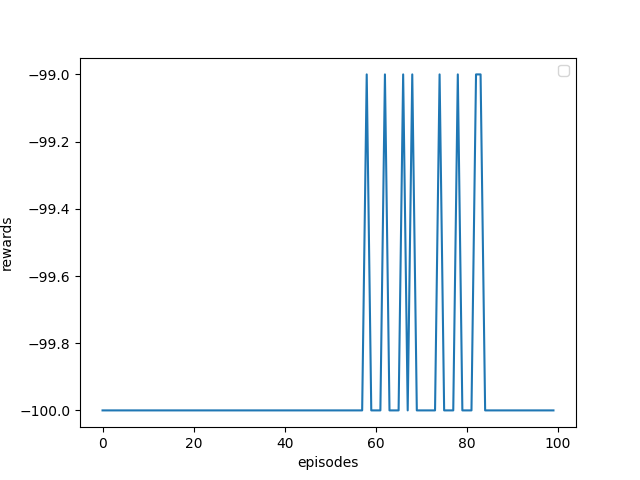
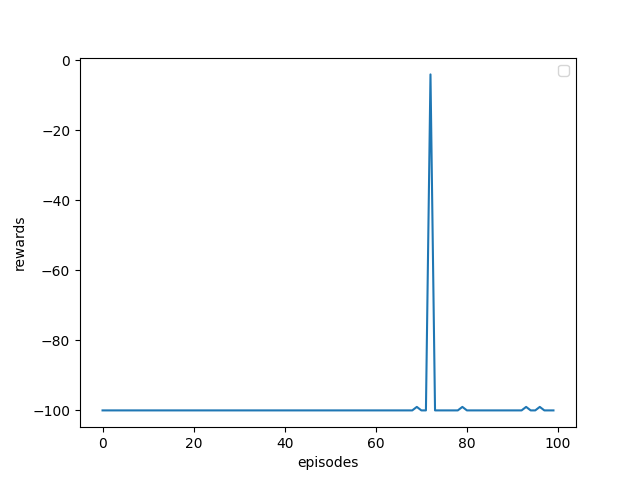
iteration 1

diff --git a/game.py b/game.py
@@ -16,10 +16,6 @@ class Game:
         self.log_file = "log.txt"
 
     def run(self, episodes):
-        old = dup(1)
-        close(1)
-        open(self.log_file, O_WRONLY)  # should open on 1
-
         max_reward = [0, -100]
         rewards = []
         total_rewards = 0
@@ -62,10 +58,6 @@ class Game:
         self.agent.save_model()
         print(f"~~~ Max_reward: {max_reward} ~~~~")
         print(f"Total rewards for {episodes} {total_rewards}")
-
-        close(1)
-        dup(old)  # should dup to 1
-        close(old)  # get rid of leftovers
 
         plt.plot(range(episodes), rewards)
         plt.ylabel("rewards")

diff --git a/agent.py b/agent.py
@@ -69,8 +69,8 @@ class Agent:
     def create_neural_network(weights_path) -> keras.Sequential:
         model = keras.Sequential()
         model.add(layers.Input(8, name="layer1"))
-        model.add(layers.Dense(56, activation="relu", name="layer2"))
-        model.add(layers.Dense(32, activation="relu", name="layer3"))
+        model.add(layers.Dense(32, activation="relu", name="layer2"))
+        model.add(layers.Dense(18, activation="relu", name="layer3"))
         model.add(layers.Dense(2, activation=None, name="layer4"))
 
         model.compile(optimizer='rmsprop',
